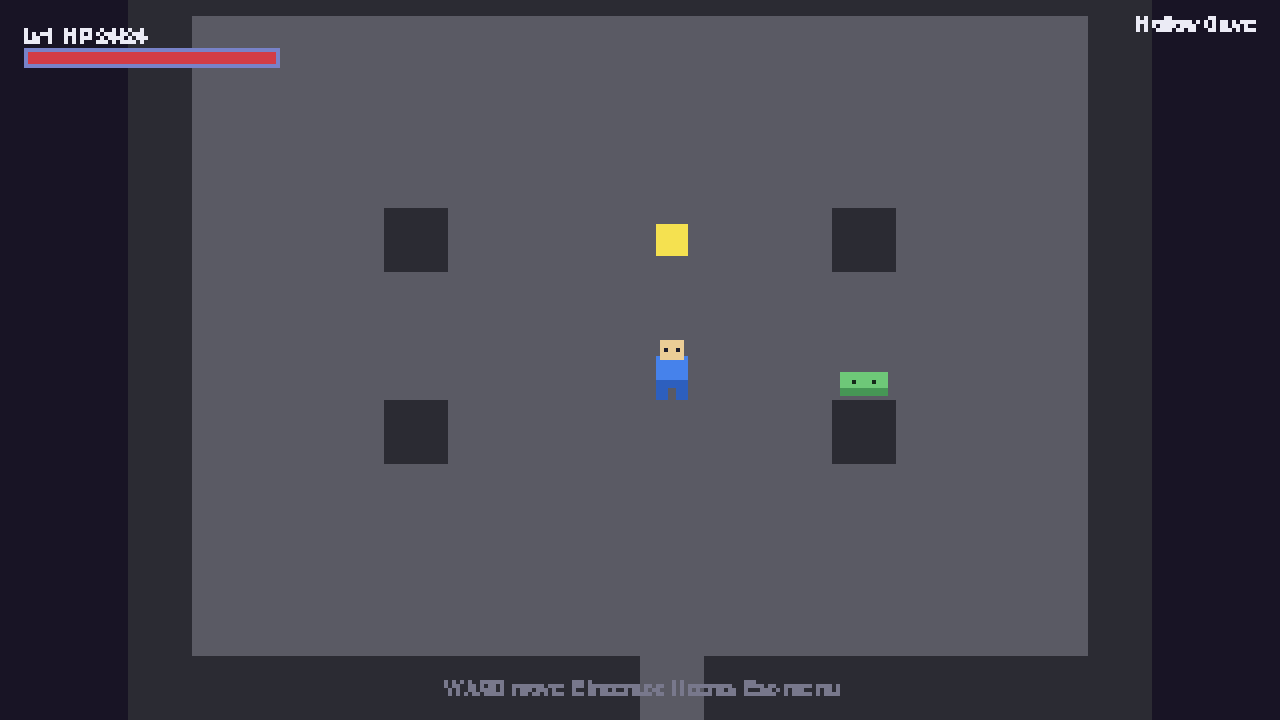
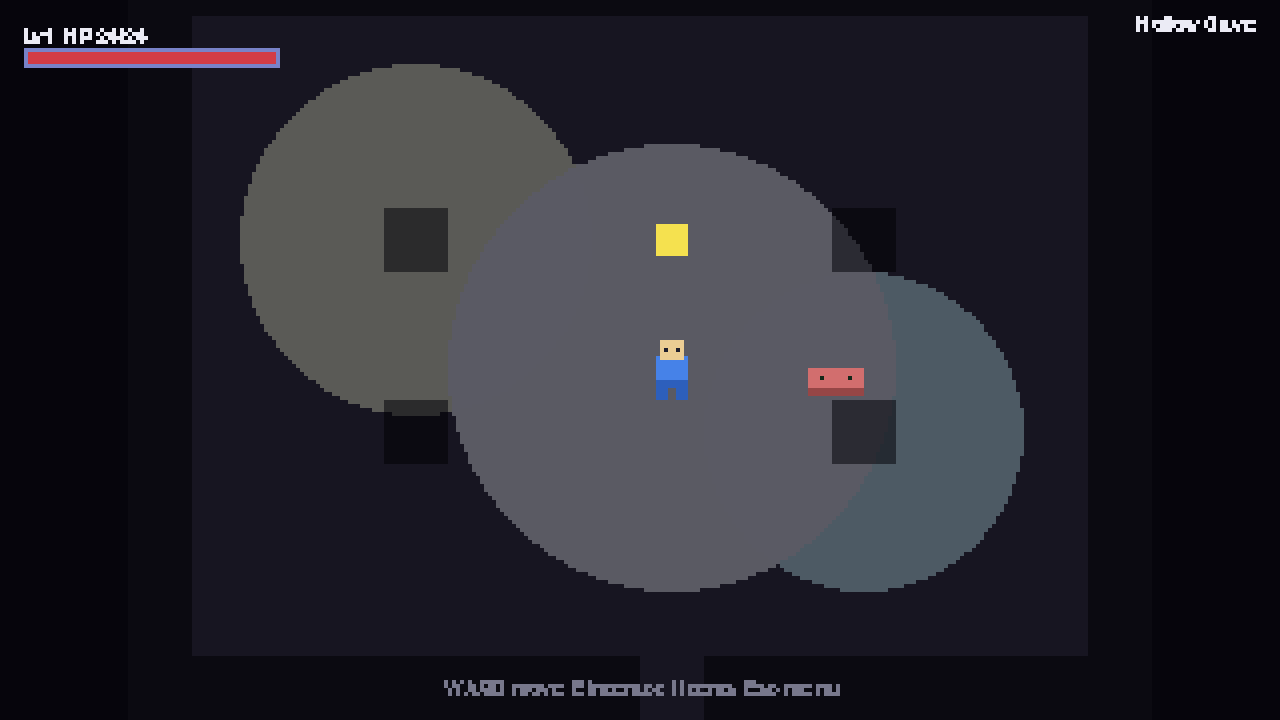
Gen2 Phase C: pixel-art lighting - banded light + day/night + ambient
- LightingEffect: quantized/banded light falloff (render.light_bands) -> crisp
  pixel-art light pools instead of smooth gradients; normal-map extension hook
  documented
- engine/graphics/daynight.py: data-driven day/night cycle (keyframed ambient);
  outdoor maps feed it as ambient so the world darkens at night and the torch
  matters; indoor maps keep their fixed ambient
- FIX: renderer ran per-layer effect hooks only for non-empty layers, so the
  lighting pass (targeting the empty 'overhead' layer) was skipped -> now runs
  for every configured layer
- Cave shows banded torch pools; overworld cycles day->night

Claude-Session: https://claude.ai/code/session_01FnZYrLkUu1hmMnYcQeRe9X

diff --git a/engine/graphics/daynight.py b/engine/graphics/daynight.py
@@ -1,0 +1,71 @@
+"""
+engine.graphics.daynight
+======================
+A data-driven day/night cycle that produces a time-varying ambient colour for the
+lighting system. Outdoor maps feed this colour to the LightingEffect as ambient,
+so the world darkens and warms across the day and the player's torch matters at
+night. Indoor maps that set their own ``ambient`` ignore it.
+
+Config (``render.day_night``):
+    {
+      "enabled": true,
+      "period": 120,                 # seconds for a full day
+      "start": 0.15,                 # initial phase 0..1 (0.15 = morning)
+      "keyframes": [                 # phase -> ambient colour (interpolated)
+        {"t": 0.0,  "color": [255, 255, 255]},
+        {"t": 0.45, "color": [235, 205, 180]},
+        {"t": 0.6,  "color": [120, 110, 165]},
+        {"t": 0.75, "color": [70, 75, 120]},
+        {"t": 0.9,  "color": [120, 110, 165]}
+      ]
+    }
+"""
+
+from __future__ import annotations
+
+from typing import List, Tuple
+
+_DEFAULT_KEYS = [
+    {"t": 0.0, "color": [255, 255, 255]},
+    {"t": 0.45, "color": [235, 205, 180]},
+    {"t": 0.6, "color": [120, 110, 165]},
+    {"t": 0.75, "color": [70, 75, 120]},
+    {"t": 0.9, "color": [120, 110, 165]},
+]
+
+
+class DayNightCycle:
+    def __init__(self, settings) -> None:
+        cfg = settings.get("render.day_night", {}) or {}
+        self.enabled = cfg.get("enabled", False)
+        self.period = max(1.0, cfg.get("period", 120))
+        self.keys = sorted(cfg.get("keyframes", _DEFAULT_KEYS), key=lambda k: k["t"])
+        self.time = cfg.get("start", 0.15) * self.period
+
+    def update(self, dt: float) -> None:
+        if self.enabled:
+            self.time = (self.time + dt) % self.period
+
+    @property
+    def phase(self) -> float:
+        return self.time / self.period
+
+    def ambient(self) -> Tuple[int, int, int]:
+        """Interpolate the keyframes (wrapping) at the current phase."""
+        p = self.phase
+        keys = self.keys
+        if not keys:
+            return (255, 255, 255)
+        # Find the surrounding keyframes (wrapping around 1.0 -> 0.0).
+        prev = keys[-1]
+        nxt = keys[0]
+        for i, k in enumerate(keys):
+            if k["t"] > p:
+                nxt = k
+                prev = keys[i - 1] if i > 0 else keys[-1]
+                break
+        else:
+            prev, nxt = keys[-1], keys[0]
+        span = (nxt["t"] - prev["t"]) % 1.0 or 1.0
+        local = ((p - prev["t"]) % 1.0) / span
+        return tuple(int(a + (b - a) * local) for a, b in zip(prev["color"], nxt["color"]))

diff --git a/engine/graphics/effects.py b/engine/graphics/effects.py
@@ -47,12 +47,15 @@ class RenderEffect:
 
 class LightingEffect(RenderEffect):
     def __init__(self, after_layer_name: str = "overhead",
-                 ambient: Color = (255, 255, 255)) -> None:
+                 ambient: Color = (255, 255, 255), bands: int = 0) -> None:
         self._after = after_layer_name
         self.ambient: Color = ambient
+        # bands > 0 quantizes the light falloff into N steps -> crisp pixel-art
+        # light pools instead of a smooth modern gradient.
+        self.bands = bands
         # Each light: (world_x, world_y, radius, color)
         self.lights: List[Tuple[float, float, float, Color]] = []
-        self._tex_cache: Dict[Tuple[int, Color], pygame.Surface] = {}
+        self._tex_cache: Dict[Tuple[int, Color, int], pygame.Surface] = {}
 
     # -- light management (called by game code each frame) -------------------
     def set_ambient(self, color: Color) -> None:
@@ -66,16 +69,23 @@ class LightingEffect(RenderEffect):
         self.lights.append((world_x, world_y, radius, color))
 
     def _light_texture(self, radius: int, color: Color) -> pygame.Surface:
-        key = (radius, color)
+        key = (radius, color, self.bands)
         tex = self._tex_cache.get(key)
         if tex is None:
             tex = pygame.Surface((radius * 2, radius * 2), pygame.SRCALPHA)
-            # Smooth-ish radial falloff (Phase C banding makes this pixel-art crisp).
             for r in range(radius, 0, -1):
-                a = int(255 * (1 - r / radius) ** 1.6)
-                pygame.draw.circle(tex, (*color, a), (radius, radius), r)
+                a = (1 - r / radius) ** 1.6
+                if self.bands > 0:            # quantize falloff into discrete steps
+                    a = round(a * self.bands) / self.bands
+                pygame.draw.circle(tex, (*color, int(255 * a)), (radius, radius), r)
             self._tex_cache[key] = tex
         return tex
+
+    # NORMAL-MAP EXTENSION HOOK: for directional lighting you would, here, sample
+    # a per-sprite normal map and modulate each light's contribution by
+    # dot(normal, light_dir). It is intentionally left out of the CPU pass for
+    # performance; a moderngl renderer (same Renderer interface) is the right
+    # place to add it. The data seam is a `normal_map` image alongside a sprite.
 
     def after_layer(self, layer_name, surface, renderer):
         if not self.enabled or layer_name != self._after:

diff --git a/main.py b/main.py
@@ -23,6 +23,7 @@ import os
 from engine.abilities.ability import AbilityDatabase, StatusDatabase
 from engine.core.game import Game
 from engine.economy.shop import ShopDatabase
+from engine.graphics.daynight import DayNightCycle
 from engine.graphics.effects import LightingEffect, ParticleSystem
 from engine.graphics.palette import PaletteManager
 from engine.inventory.item import ItemDatabase
@@ -84,10 +85,13 @@ def build_services(game: Game) -> None:
     # renderer; scenes drive lights / emit particles through these handles.
     game.lighting = None
     game.particles = None
+    game.daynight = DayNightCycle(s)
     if s.get("render.effects_enabled", False):
         names = s.get("render.effects", [])
         if "lighting" in names:
-            game.lighting = LightingEffect(after_layer_name=s.get("render.lighting_layer", "overhead"))
+            game.lighting = LightingEffect(
+                after_layer_name=s.get("render.lighting_layer", "overhead"),
+                bands=s.get("render.light_bands", 0))
             game.renderer.add_effect(game.lighting)
         if "particles" in names:
             game.particles = ParticleSystem(chunky=s.get("render.particle_size", 2))

diff --git a/game/scenes/overworld_scene.py b/game/scenes/overworld_scene.py
@@ -220,6 +220,8 @@ class OverworldScene(Scene):
         # so a just-defeated enemy can't re-trigger below.
         self.world.update(dt)  # includes the AnimationSystem
         self.render_system.update_flashes(dt)
+        if getattr(self.game, "daynight", None):
+            self.game.daynight.update(dt)
 
         # Camera follows the player centre.
         t = self.player.get("transform")
@@ -573,7 +575,12 @@ class OverworldScene(Scene):
             return
         props = self.world.tilemap.properties
         amb = props.get("ambient")
-        ambient = self._parse_color(amb) if amb else (255, 255, 255)
+        if amb:                                  # indoor: fixed ambient (e.g. cave)
+            ambient = self._parse_color(amb)
+        elif getattr(self.game, "daynight", None) and self.game.daynight.enabled:
+            ambient = self.game.daynight.ambient()   # outdoor: day/night cycle
+        else:
+            ambient = (255, 255, 255)
         light.set_ambient(ambient)
         light.clear_lights()
         if ambient == (255, 255, 255):

diff --git a/engine/graphics/renderer.py b/engine/graphics/renderer.py
@@ -255,14 +255,14 @@ class PygameRenderer(Renderer):
         # 1) Flush layered draw queue in configured order.
         for name in self._layer_order:
             q = self._queues.get(name)
-            if not q:
-                continue
-            if name in self._y_sort:
-                q.sort(key=lambda c: c.sort_y)
-            for cmd in q:
-                cmd.execute(self.base)
-            # EXTENSION HOOK: per-layer effects (e.g. lighting applied above
-            # the world but below the UI) run here.
+            if q:
+                if name in self._y_sort:
+                    q.sort(key=lambda c: c.sort_y)
+                for cmd in q:
+                    cmd.execute(self.base)
+            # EXTENSION HOOK: per-layer effects (e.g. lighting applied above the
+            # world but below the UI) run for EVERY configured layer, even empty
+            # ones -- so an effect can target a layer that holds no tiles itself.
             for effect in self._effects:
                 effect.after_layer(name, self.base, self)
 
